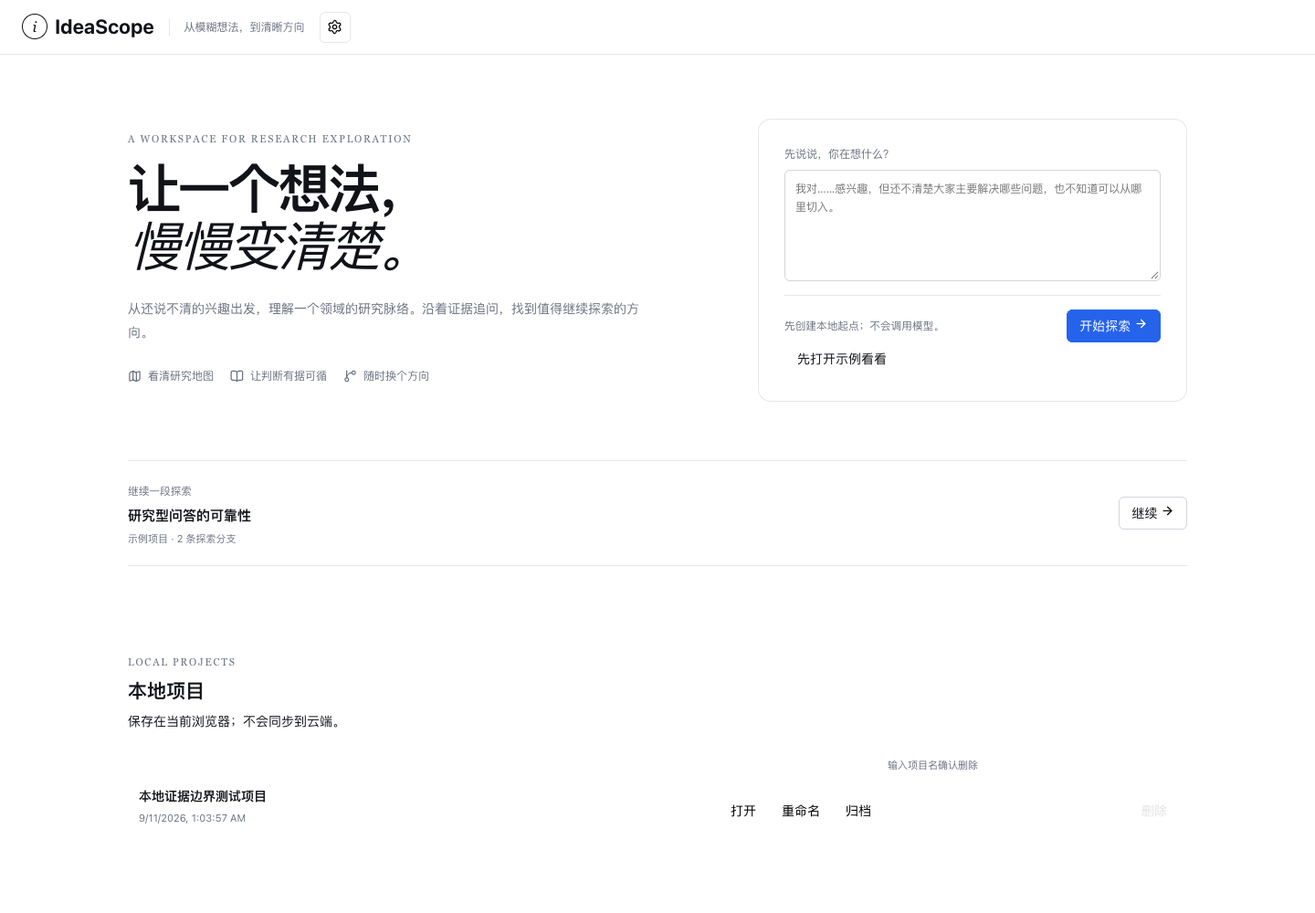
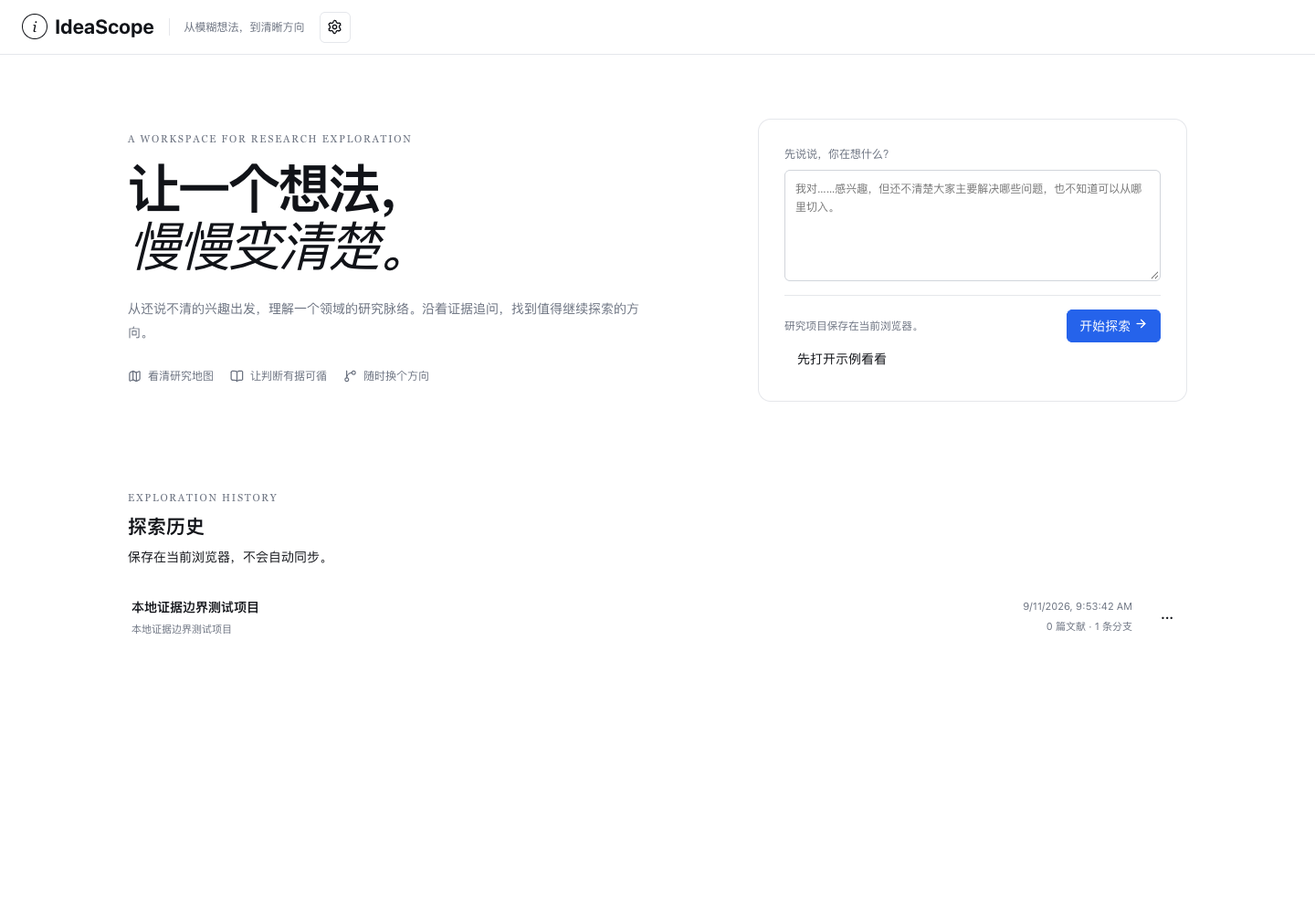
feat: complete v0.6.3 exploration experience

diff --git a/tests/e2e/static-preview.spec.ts b/tests/e2e/static-preview.spec.ts
@@ -1,5 +1,13 @@
 import { expect, test } from "@playwright/test";
 
+async function configureProvider(page: import("@playwright/test").Page) {
+  await page.goto("/ideascope/#/settings/provider");
+  await page.getByLabel("Model ID").fill("test-model");
+  await page.getByLabel("API Key").fill("test-session-key");
+  await page.getByRole("button", { name: "保存配置" }).click();
+  await expect(page.getByText(/Provider 配置已保存/)).toBeVisible();
+}
+
 test("loads from a Pages-style subpath and keeps navigation in the hash", async ({
   page,
 }) => {
@@ -13,8 +21,44 @@ test("loads from a Pages-style subpath and keeps navigation in the hash", async 
   expect(errors).toEqual([]);
 });
 
+test("guides first use through provider settings and preserves the idea draft", async ({ page }) => {
+  const idea = "首次使用流程中的研究想法";
+  await page.goto("/ideascope/#/");
+  await page.getByLabel("先说说，你在想什么？").fill(idea);
+  await page.getByRole("button", { name: /开始探索/ }).click();
+  await expect(page.getByRole("dialog", { name: "需要配置模型" })).toBeVisible();
+  await page.getByRole("button", { name: "前往设置" }).click();
+  await page.setViewportSize({ width: 1440, height: 1000 });
+  await page.screenshot({ path: "reports/visual/settings-provider-1440x1000.png", fullPage: true });
+  await page.getByLabel("Model ID").fill("test-model");
+  await page.getByLabel("API Key").fill("test-session-key");
+  await page.getByRole("button", { name: "保存配置" }).click();
+  await page.getByRole("link", { name: "返回首页" }).click();
+  await expect(page.getByLabel("先说说，你在想什么？")).toHaveValue(idea);
+  await page.getByRole("button", { name: /开始探索/ }).click();
+  await expect(page.getByRole("heading", { name: "初始范围" })).toBeVisible();
+});
+
+test("returns from settings to the originating workspace", async ({ page }) => {
+  await page.goto("/ideascope/#/workspace/demo");
+  await page.getByLabel("模型与来源设置").click();
+  await expect(page.getByRole("link", { name: "返回研究工作区" })).toBeVisible();
+  await page.getByRole("link", { name: "文献来源" }).click();
+  await page.getByRole("link", { name: "返回研究工作区" }).click();
+  await expect(page).toHaveURL(/#\/workspace\/demo$/);
+});
+
+test("does not treat an unsaved provider draft as active", async ({ page }) => {
+  await page.goto("/ideascope/#/settings/provider");
+  await page.getByLabel("Model ID").fill("unsaved-model");
+  await page.getByLabel("API Key").fill("session-key");
+  await page.reload();
+  await expect(page.getByText("尚未保存", { exact: true })).toBeVisible();
+});
+
 test("creates, restores and deletes a local project without a model call", async ({ page }) => {
   const idea = "本地证据边界测试项目";
+  await configureProvider(page);
   await page.goto("/ideascope/#/");
   await page.getByLabel("先说说，你在想什么？").fill(idea);
   await page.getByRole("button", { name: /开始探索/ }).click();
@@ -25,37 +69,41 @@ test("creates, restores and deletes a local project without a model call", async
   await expect(project).toBeVisible();
   await page.setViewportSize({ width: 1440, height: 1000 });
   await page.screenshot({ path: "reports/visual/local-projects-1440x1000.png", fullPage: true });
-  await project.getByLabel(`确认删除 ${idea}`).fill(idea);
+  await project.getByLabel(`${idea} 的更多操作`).click();
   await project.getByRole("button", { name: "删除" }).click();
+  await page.getByLabel("输入项目名称确认删除").fill(idea);
+  await page.getByRole("button", { name: "确认删除" }).click();
   await expect(project).toBeHidden();
 });
 
 test("does not enable paid provider probes without model and key", async ({
   page,
 }) => {
-  await page.goto("/ideascope/#/settings");
+  await page.goto("/ideascope/#/settings/provider");
   await expect(page.getByRole("button", { name: /普通完成/ })).toBeDisabled();
   await expect(page.getByRole("button", { name: /结构化输出/ })).toBeDisabled();
 });
 
-test("exposes redacted diagnostics and guarded local data cleanup", async ({ page }) => {
-  await page.goto("/ideascope/#/settings");
-  await expect(page.getByText(/纯前端应用无法安全保管长期密钥/)).toBeVisible();
-  const clear = page.getByRole("button", { name: "清除全部本地数据" });
+test("exposes separated data and diagnostic settings", async ({ page }) => {
+  await page.goto("/ideascope/#/settings/data");
+  await page.setViewportSize({ width: 1440, height: 1000 });
+  await page.screenshot({ path: "reports/visual/settings-data-1440x1000.png", fullPage: true });
+  const clear = page.getByRole("button", { name: "删除所有本地研究项目" });
   await expect(clear).toBeDisabled();
-  await page.getByLabel(/导入 IdeaScope JSON/).setInputFiles("examples/workspace.demo.json");
-  await expect(page.getByText(/已导入为新项目/)).toBeVisible();
-  const download = page.waitForEvent("download");
-  await page.getByRole("button", { name: "导出脱敏诊断" }).click();
-  expect((await download).suggestedFilename()).toBe("ideascope-diagnostics.json");
+  await page.getByLabel("导入备份").setInputFiles("examples/workspace.demo.json");
+  await expect(page.getByText(/已导入 1 个项目/)).toBeVisible();
+  await page.getByRole("button", { name: "清理缓存" }).click();
+  await expect(page.getByText(/研究项目未删除/)).toBeVisible();
   await page.getByLabel(/输入“清除全部数据”确认/).fill("不清除");
   await expect(clear).toBeDisabled();
-  await expect(page.getByRole("heading", { name: "真实关键词检索" })).toBeVisible();
+  await page.getByRole("link", { name: "关于" }).click();
+  await expect(page.getByText(/诊断信息不会包含密钥或研究正文/)).toBeVisible();
+  await page.screenshot({ path: "reports/visual/settings-about-1440x1000.png", fullPage: true });
   await page.setViewportSize({ width: 1440, height: 1000 });
   await page.screenshot({ path: "reports/visual/data-safety-1440x1000.png", fullPage: true });
 });
 
-test("runs a bounded OpenAlex keyword query without invoking a model", async ({
+test("runs a lightweight OpenAlex health check without creating research history", async ({
   page,
 }) => {
   let requestedUrl = "";
@@ -72,46 +120,20 @@ test("runs a bounded OpenAlex keyword query without invoking a model", async ({
         "X-RateLimit-Reset": "300",
       },
       body: JSON.stringify({
-        meta: { count: 1, next_cursor: null, cost_usd: 0.001 },
-        results: [
-          {
-            id: `https://openalex.org/W${requestCount}`,
-            doi: null,
-            title: "Reliable Research Question Answering",
-            publication_year: 2025,
-            authorships: [{ author: { display_name: "Example Author" } }],
-            primary_location: {
-              source: { display_name: "Example Journal" },
-              landing_page_url: "https://example.test/paper",
-            },
-            best_oa_location: null,
-            abstract_inverted_index: null,
-          },
-        ],
+        meta: { count: 1 }, results: [{ id: "https://openalex.org/W1", title: "Health check" }],
       }),
     });
   });
-  await page.goto("/ideascope/#/settings");
-  await page.getByRole("button", { name: "预览四类检索配方" }).click();
-  await expect(
-    page.getByText("counterevidence", { exact: true }),
-  ).toBeVisible();
-  await page.getByRole("button", { name: "执行真实检索" }).click();
-  await expect(
-    page.getByText("Reliable Research Question Answering").first(),
-  ).toBeVisible();
-  await expect(page.getByText("本地文献库 1 条")).toBeVisible();
-  await page.getByRole("button", { name: "执行真实检索" }).click();
-  await expect(page.getByText("候选重复 · 需人工审阅")).toBeVisible();
-  await page.getByRole("button", { name: "保留独立" }).click();
-  await expect(page.getByText("候选重复 · 需人工审阅")).toBeHidden();
-  await expect(page.getByText("本地文献库 2 条")).toBeVisible();
-  expect(new URL(requestedUrl).searchParams.get("search")).toBe(
-    "retrieval augmented generation reliability evidence",
-  );
-  expect(requestedUrl).not.toContain(
-    encodeURIComponent("怎样让研究型问答更可靠？"),
-  );
+  await page.goto("/ideascope/#/settings/literature");
+  await page.setViewportSize({ width: 1440, height: 1000 });
+  await page.screenshot({ path: "reports/visual/settings-literature-1440x1000.png", fullPage: true });
+  await page.getByRole("button", { name: "测试连接" }).click();
+  await expect(page.getByText("可用", { exact: true }).last()).toBeVisible();
+  expect(requestCount).toBe(1);
+  expect(new URL(requestedUrl).searchParams.get("per_page")).toBe("1");
+  expect(new URL(requestedUrl).searchParams.has("search")).toBe(false);
+  await page.goto("/ideascope/#/");
+  await expect(page.getByText(/还没有探索记录/)).toBeVisible();
   await page.setViewportSize({ width: 1440, height: 1000 });
   await page.screenshot({
     path: "reports/visual/literature-search-1440x1000.png",

diff --git a/src/features/workspace/ProjectLibrary.tsx b/src/features/workspace/ProjectLibrary.tsx
@@ -1,33 +1,15 @@
 import { useCallback, useEffect, useMemo, useState } from "react";
 import { useNavigate } from "react-router-dom";
+import { exportWorkspaceJson } from "../../domain/export/workspace-export";
+import { downloadText } from "../../infrastructure/export/download";
 import type { WorkspaceRecord } from "../../infrastructure/storage/ideascope-database";
 import { WorkspaceRepository } from "../../infrastructure/storage/workspace-repository";
+import { Button, Dialog } from "../../shared/ui";
 import styles from "./ProjectLibrary.module.css";
-
 export function ProjectLibrary() {
-  const navigate = useNavigate();
-  const [items, setItems] = useState<WorkspaceRecord[]>([]);
-  const [confirm, setConfirm] = useState<Record<string, string>>({});
-  const repository = useMemo(() => new WorkspaceRepository(), []);
-  const refresh = useCallback(async () => {
-    try { setItems(await repository.list()); }
-    catch { setItems([]); }
-  }, [repository]);
-  useEffect(() => {
-    if (!("indexedDB" in globalThis)) return;
-    let active = true;
-    void repository.list().then((value) => { if (active) setItems(value); }, () => { if (active) setItems([]); });
-    return () => { active = false; };
-  }, [repository]);
-  return <section className={styles.library} aria-labelledby="local-projects-title">
-    <div><small>LOCAL PROJECTS</small><h2 id="local-projects-title">本地项目</h2><p>保存在当前浏览器；不会同步到云端。</p></div>
-    {items.filter(({ archivedAt }) => !archivedAt).length ? items.filter(({ archivedAt }) => !archivedAt).map((item) => <article key={item.id}>
-      <div><strong>{item.title}</strong><small>{new Date(item.updatedAt).toLocaleString()}</small></div>
-      <button onClick={() => void navigate(`/workspace/${item.id}`)}>打开</button>
-      <button onClick={() => { const title = window.prompt("新项目名称", item.title); if (title) void repository.rename(item.id, title).then(refresh); }}>重命名</button>
-      <button onClick={() => void repository.archive(item.id).then(refresh)}>归档</button>
-      <label>输入项目名确认删除<input aria-label={`确认删除 ${item.title}`} value={confirm[item.id] ?? ""} onChange={(event) => setConfirm((current) => ({ ...current, [item.id]: event.target.value }))}/></label>
-      <button disabled={confirm[item.id] !== item.title} onClick={() => void repository.delete(item.id, confirm[item.id] ?? "").then(refresh)}>删除</button>
-    </article>) : <p>还没有本地项目。写下想法即可创建一个不调用模型的探索起点。</p>}
-  </section>;
+  const navigate=useNavigate();const [items,setItems]=useState<WorkspaceRecord[]>([]);const [deleting,setDeleting]=useState<WorkspaceRecord|null>(null);const [confirmation,setConfirmation]=useState("");const repository=useMemo(()=>new WorkspaceRepository(),[]);
+  const refresh=useCallback(async()=>{try{setItems(await repository.list());}catch{setItems([]);}},[repository]);useEffect(()=>{if(!("indexedDB" in globalThis))return;let active=true;void repository.list().then(value=>{if(active)setItems(value);},()=>{if(active)setItems([]);});return()=>{active=false;};},[repository]);
+  async function exportItem(item:WorkspaceRecord){const value=await repository.get(item.id);if(value)downloadText(`${item.title}.json`,"application/json",exportWorkspaceJson(value,"0.6.3"));}
+  const visible=items.filter(({archivedAt})=>!archivedAt);
+  return <section className={styles.library} aria-labelledby="history-title"><div><small>EXPLORATION HISTORY</small><h2 id="history-title">探索历史</h2><p>保存在当前浏览器，不会自动同步。</p></div>{visible.length?<div className={styles.list}>{visible.map(item=><article key={item.id} tabIndex={0} onClick={()=>void navigate(`/workspace/${item.id}`)} onKeyDown={event=>{if(event.key==="Enter")void navigate(`/workspace/${item.id}`);}}><div className={styles.main}><strong>{item.title}</strong><span>{item.seedIdea}</span></div><div className={styles.meta}><span>{new Date(item.updatedAt).toLocaleString()}</span><span>{item.paperIds.length} 篇文献 · {item.branchIds.length} 条分支</span></div><details onClick={event=>event.stopPropagation()}><summary aria-label={`${item.title} 的更多操作`}>···</summary><div className={styles.menu}><button onClick={()=>{const title=window.prompt("新项目名称",item.title);if(title)void repository.rename(item.id,title).then(refresh);}}>重命名</button><button onClick={()=>void exportItem(item)}>导出</button><button onClick={()=>{setDeleting(item);setConfirmation("");}}>删除</button></div></details></article>)}</div>:<p className={styles.empty}>还没有探索记录。写下一个研究想法即可开始。</p>}<Dialog open={Boolean(deleting)} title="删除探索项目" onClose={()=>setDeleting(null)}><p>此操作不可撤销。请输入项目名称“{deleting?.title}”确认。</p><input aria-label="输入项目名称确认删除" value={confirmation} onChange={event=>setConfirmation(event.target.value)}/><div className={styles.actions}><Button onClick={()=>setDeleting(null)}>取消</Button><Button disabled={confirmation!==deleting?.title} onClick={()=>{if(deleting)void repository.delete(deleting.id,confirmation).then(()=>{setDeleting(null);void refresh();});}}>确认删除</Button></div></Dialog></section>;
 }

diff --git a/src/features/provider-settings/ConnectionLab.tsx b/src/features/provider-settings/ConnectionLab.tsx
@@ -96,12 +96,13 @@ export function ConnectionLab({ onSaved }: { onSaved?: (profile: SavedProviderPr
 
   async function saveProvider() {
     try {
+      const draftChanged = !saved || saved.name !== name || saved.providerType !== providerType || saved.format !== format || saved.baseUrl !== baseUrl || saved.model !== model;
       const profile = await new ProviderProfileRepository().saveActive(
         { name, providerType, format, baseUrl, model },
-        lastTest ? { state: lastTest.state, testedAt: lastTest.testedAt } : undefined,
+        lastTest ? { state: lastTest.state, testedAt: lastTest.testedAt } : draftChanged ? { state: "unknown", testedAt: null } : undefined,
       );
       setSaved(profile);
-      setMessage(keyPresent ? "Provider 配置已保存并设为当前使用。" : "非敏感配置已保存；刷新后请重新输入 API Key。 ");
+      setMessage(keyPresent ? "Provider 配置已保存并设为当前使用。" : "非敏感配置已保存；使用前请重新输入 API Key。");
       onSaved?.(profile);
     } catch (error) { setMessage(error instanceof Error ? error.message : "保存配置失败。"); }
   }
@@ -110,8 +111,8 @@ export function ConnectionLab({ onSaved }: { onSaved?: (profile: SavedProviderPr
     <section className={styles.lab} aria-labelledby="lab-title">
       <div className={styles.heading}>
         <div>
-          <p>CONNECTION LAB / 0.1-B</p>
-          <h2 id="lab-title">浏览器连接探针</h2>
+          <p>MODEL PROVIDER</p>
+          <h2 id="lab-title">模型 Provider</h2>
         </div>
         <span>真实模式</span>
       </div>
@@ -123,8 +124,10 @@ export function ConnectionLab({ onSaved }: { onSaved?: (profile: SavedProviderPr
           </p>
           <dl>
             <div><dt>当前 Provider</dt><dd>{saved?.name ?? "尚未保存"}</dd></div>
+            <div><dt>Provider 类型</dt><dd>{saved?.providerType ?? "—"}</dd></div>
+            <div><dt>请求协议</dt><dd>{saved?.format ?? "—"}</dd></div>
             <div><dt>模型</dt><dd>{saved?.model || "—"}</dd></div>
-            <div><dt>状态</dt><dd>{saved ? (keyPresent ? "可使用" : "需要重新输入 API Key") : "未配置"}</dd></div>
+            <div><dt>状态</dt><dd>{saved ? (keyPresent ? `可使用 · 最近测试${stateLabels[saved.lastTestState]}` : "需要重新输入 API Key") : "未配置"}</dd></div>
           </dl>
           <label>
             Provider 名称

diff --git a/src/pages/HomePage.tsx b/src/pages/HomePage.tsx
@@ -26,6 +26,6 @@ export function HomePage() {
   return <><AppHeader context="从模糊想法，到清晰方向"/><main className={styles.home}>
     <section><p className={styles.kicker}>A WORKSPACE FOR RESEARCH EXPLORATION</p><h1>让一个想法，<br/><em>慢慢变清楚。</em></h1><p className={styles.desc}>从还说不清的兴趣出发，理解一个领域的研究脉络。沿着证据追问，找到值得继续探索的方向。</p><div className={styles.points}><span><Map/>看清研究地图</span><span><BookOpen/>让判断有据可循</span><span><GitBranch/>随时换个方向</span></div></section>
     <section className={styles.entry}><Textarea label="先说说，你在想什么？" value={idea} onChange={e=>{setIdea(e.target.value);sessionStorage.setItem('ideascope.ideaDraft',e.target.value);}} placeholder={copy.placeholder}/><div className={styles.actions}><small>研究项目保存在当前浏览器。</small><Button variant="primary" onClick={() => void startLocal()}>开始探索 <ArrowRight size={15}/></Button></div><Button variant="ghost" onClick={() => { void navigate('/workspace/demo'); }}>先打开示例看看</Button></section>
-    <section className={styles.recent}><div><small>继续一段探索</small><h2>研究型问答的可靠性</h2><p>示例项目 · 2 条探索分支</p></div><Button onClick={() => { void navigate('/workspace/demo'); }}>继续 <ArrowRight size={15}/></Button></section><Suspense fallback={<p role="status">正在读取本地项目…</p>}><ProjectLibrary /></Suspense>
+    <Suspense fallback={<p role="status">正在读取探索历史…</p>}><ProjectLibrary /></Suspense>
   </main><Dialog open={dialog === "provider"} title="需要配置模型" onClose={()=>setDialog(null)}><p>IdeaScope 需要连接一个模型 Provider 才能开始研究探索。{providerReason === "missing_session_key" ? "已保存非敏感配置；刷新后需要重新输入 API Key。" : ""}</p><div className={styles.dialogActions}><Button onClick={()=>setDialog(null)}>暂不配置</Button><Button variant="primary" onClick={() => { void navigate('/settings/provider', { state: { returnTo: '/' } }); }}>前往设置</Button></div></Dialog><Dialog open={dialog === "idea"} title="请先写下一个想法" onClose={()=>setDialog(null)}><p>输入一个希望继续澄清的研究主题，再开始探索。</p><Button onClick={()=>setDialog(null)}>知道了</Button></Dialog></>;
 }

diff --git a/src/features/workspace/ProjectLibrary.module.css b/src/features/workspace/ProjectLibrary.module.css
@@ -1,1 +1,1 @@
-.library{grid-column:1/-1;border-top:1px solid var(--border);padding-top:28px;display:grid;gap:12px}.library h2,.library p{margin:4px 0}.library>div>small{font:11px Georgia,serif;letter-spacing:.16em;color:var(--muted)}.library article{display:grid;grid-template-columns:minmax(220px,1fr) auto auto auto minmax(180px,260px) auto;align-items:end;gap:8px;padding:12px;border:1px solid var(--border);border-radius:8px}.library article div,.library label{display:grid;gap:4px}.library article small,.library label{font-size:11px;color:var(--muted)}.library input{height:34px;border:1px solid var(--border);border-radius:5px;padding:0 8px}.library button{min-height:34px;border:1px solid var(--border-strong);border-radius:5px;background:#fff;padding:0 10px}.library button:disabled{opacity:.4}@media(max-width:900px){.library article{grid-template-columns:1fr 1fr}.library article>div,.library article>label{grid-column:1/-1}}
+.library{grid-column:1/-1;border-top:1px solid var(--border);padding-top:28px;display:grid;gap:14px}.library h2,.library p{margin:4px 0}.library>div>small{font:11px Georgia,serif;letter-spacing:.16em;color:var(--muted)}.list{display:grid}.list article{position:relative;display:grid;grid-template-columns:minmax(0,1fr) auto 36px;align-items:center;gap:20px;padding:14px 4px;border-bottom:1px solid var(--border);cursor:pointer}.list article:hover,.list article:focus{background:var(--surface-muted);outline:none}.main,.meta{display:grid;gap:4px}.main span,.meta{font-size:11px;color:var(--muted)}.main span{white-space:nowrap;overflow:hidden;text-overflow:ellipsis}.meta{text-align:right}.list details{position:relative}.list summary{list-style:none;text-align:center;font-weight:700}.menu{position:absolute;right:0;z-index:2;width:110px;padding:4px;background:var(--surface);border:1px solid var(--border);box-shadow:0 8px 20px rgba(0,0,0,.08)}.menu button{display:block;width:100%;padding:8px;border:0;background:transparent;text-align:left}.menu button:hover{background:var(--surface-muted)}.empty{padding:18px 0;color:var(--muted)}.library input{width:100%;height:40px;border:1px solid var(--border);border-radius:5px;padding:0 8px}.actions{display:flex;justify-content:flex-end;gap:8px;margin-top:16px}@media(max-width:700px){.list article{grid-template-columns:minmax(0,1fr) 36px}.meta{grid-column:1/-1;text-align:left}}

diff --git a/src/infrastructure/storage/workspace-repository.ts b/src/infrastructure/storage/workspace-repository.ts
@@ -35,7 +35,7 @@ export class WorkspaceRepository {
     const papers = (await Promise.all(record.paperIds.map((paperId) => this.db.papers.get(paperId)))).flatMap((item) => item ? [item] : []);
     const evidence = (await Promise.all(record.evidenceIds.map((evidenceId) => this.db.evidence.get(evidenceId)))).flatMap((item) => item ? [item] : []);
     const messages = (await Promise.all(record.messageIds.map((messageId) => this.db.messages.get(messageId)))).flatMap((item) => item ? [{ id: item.id, branchId: item.branchId, role: item.role, text: item.text, evidenceIds: item.evidenceIds, createdAt: item.createdAt, isDemo: item.isDemo }] : []);
-    return { documentType: "ideascope.workspace", formatVersion: 1, createdWith: "0.6.2", exportedAt: record.updatedAt, isDemo: record.isDemo, workspace: { id: record.id, title: record.title, seedIdea: record.seedIdea, activeBranchId: record.activeBranchId, branches, papers, evidence, messages, runs: [] } };
+    return { documentType: "ideascope.workspace", formatVersion: 1, createdWith: "0.6.3", exportedAt: record.updatedAt, isDemo: record.isDemo, workspace: { id: record.id, title: record.title, seedIdea: record.seedIdea, activeBranchId: record.activeBranchId, branches, papers, evidence, messages, runs: [] } };
   }
   list() { return this.db.workspaces.orderBy("updatedAt").reverse().toArray(); }
   async rename(id: string, title: string) {

diff --git a/src/infrastructure/storage/provider-profile-repository.ts b/src/infrastructure/storage/provider-profile-repository.ts
@@ -1,6 +1,7 @@
 import type { CapabilityState } from "../llm/types";
 import { providerDraftSchema, type ProviderDraft, type SavedProviderProfile } from "../../domain/provider/provider-profile";
 import { IdeaScopeDatabase, ideaScopeDatabase } from "./ideascope-database";
+import { normalizeBaseUrl } from "../llm/provider-protocol";
 
 export class ProviderProfileRepository {
   constructor(private readonly db: IdeaScopeDatabase = ideaScopeDatabase) {}
@@ -8,7 +9,7 @@ export class ProviderProfileRepository {
   async getActive() { return this.db.providerProfiles.filter(({ active }) => active).first(); }
 
   async saveActive(draft: ProviderDraft, test?: { state: CapabilityState; testedAt: string | null }) {
-    const parsed = providerDraftSchema.parse(draft);
+    const parsed = providerDraftSchema.parse({ ...draft, baseUrl: normalizeBaseUrl(draft.baseUrl) });
     const existing = await this.getActive();
     const profile: SavedProviderProfile = {
       ...parsed,

diff --git a/src/infrastructure/literature/openalex-probe.ts b/src/infrastructure/literature/openalex-probe.ts
@@ -12,8 +12,9 @@ export async function probeOpenAlex(
 ): Promise<OpenAlexProbeResult> {
   try {
     const url = new URL("https://api.openalex.org/works");
-    url.searchParams.set("search", "retrieval augmented generation");
+    url.searchParams.set("filter", "has_doi:true");
     url.searchParams.set("per_page", "1");
+    url.searchParams.set("select", "id,title");
     const response = await fetcher(url, {
       signal,
       headers: { Accept: "application/json" },

diff --git a/docs/PROGRESS.md b/docs/PROGRESS.md
@@ -1,6 +1,6 @@
 # 开发进度
 
-当前状态：**v0.6.2 Provider 能力探针可靠性修复已完成；DeepSeek Chat Completions 最小实测沿用 v0.6.1 证据，其余真实能力待凭证验证。**
+当前状态：**v0.6.3 首次使用、Provider 设置、路由返回与探索历史体验修正已完成；API Key 仍仅保存在当前运行内存，刷新后需重新输入。**
 
 | 阶段 | 状态 | 产物/证据 |
 |---|---|---|
@@ -25,6 +25,21 @@
 | v0.6.0-C | 已完成 | 安全文本、endpoint/redirect 限制、脱敏诊断、全量清除、攻击夹具与数据流说明 |
 | v0.6.1 | 已完成 | Chat Completions、Responses、Anthropic Messages 三协议 Adapter；DeepSeek 完成/JSON 实测与三类 mock 契约 |
 | v0.6.2 | 已完成 | 四项探针严格判定、完整流事件解析、failed 状态、脱敏错误诊断与一键测试 |
+| v0.6.3 | 已完成 | Provider 非敏感配置持久化与 active guard、四个设置子页、来源健康检查、returnTo、探索历史列表与首次使用回归 |
+
+## v0.6.3 阶段记录
+
+实施日期 / commit：2026-09-11 / `aef9f7d`（A）、`f3032f3`（B）、`3be9c7e`（C）及最终 D 提交。
+
+范围：只修正首次使用、Provider 配置保存、设置页信息架构、路由返回与探索历史，不修改研究 Agent、研究图和工作流语义。
+
+已完成：非敏感 Provider profile 进入既有 Dexie，密钥继续只在内存；测试与保存分离；协议切换只改变协议字段；统一 `startExploration` 检查 active profile 与会话密钥；首页草稿跨设置往返保留；设置拆为模型 Provider、文献来源、数据与存储、关于；OpenAlex 仅执行固定最小健康检查；诊断移至关于并排除查询、URL、正文和凭证；设置入口携带经校验的 `returnTo`；历史项目改为紧凑列表并复用重命名、JSON 导出和确认删除。
+
+测试证据：`npm run check` 通过，包括 ESLint、严格 TypeScript、20 个 Vitest 文件 / 89 项测试、production build、16 项 Playwright e2e 与凭证扫描。Playwright 覆盖首次使用引导、草稿保留、未保存配置不生效、Workspace 往返设置、来源健康检查不污染历史、历史进入与确认删除。构建仍报告既有大 chunk 和动态导入无效 warning，不影响构建成功。
+
+待真实验证：真实 Provider 凭证能力矩阵沿用 v0.6.2 状态；刷新会按安全设计丢失 API Key，已保存非敏感配置会恢复并提示重新输入。未部署 GitHub Pages。
+
+下一阶段入口：停止在 v0.6.3，等待真实使用反馈；不自动进入 v0.6.4 或 v0.7.0。
 
 ## 每阶段记录模板
 

diff --git a/docs/COMPATIBILITY.md b/docs/COMPATIBILITY.md
@@ -1,5 +1,13 @@
 # v0.1.0 浏览器兼容性实测
 
+## v0.6.3 设置与首次使用状态
+
+- Provider 名称、类型、协议、Base URL 与 Model 作为 active profile 保存在 IndexedDB；API Key 不持久化、不导出，刷新后必须重新输入。
+- “测试连接”只更新当前草稿的探针结果；只有“保存配置”才会更新 active Provider。编辑后的配置若未重新测试，保存状态回到“待验证”。
+- 切换 Chat Completions、Responses 与 Messages 协议不会覆盖 Base URL、Model、名称或内存中的 API Key。
+- 首页入口同时要求已保存 active profile 和当前会话密钥；底层调用仍保留自身安全检查。
+- OpenAlex 设置测试使用固定、最小健康检查参数，不运行用户关键词检索，不写入研究项目或探索历史。
+
 本文件只记录实际运行过的结果。Node/curl 成功不计作浏览器成功；模型 mock 不计作真实 Provider 成功。凭证值、Authorization header 与原始响应不写入记录。
 
 ## 测试环境
